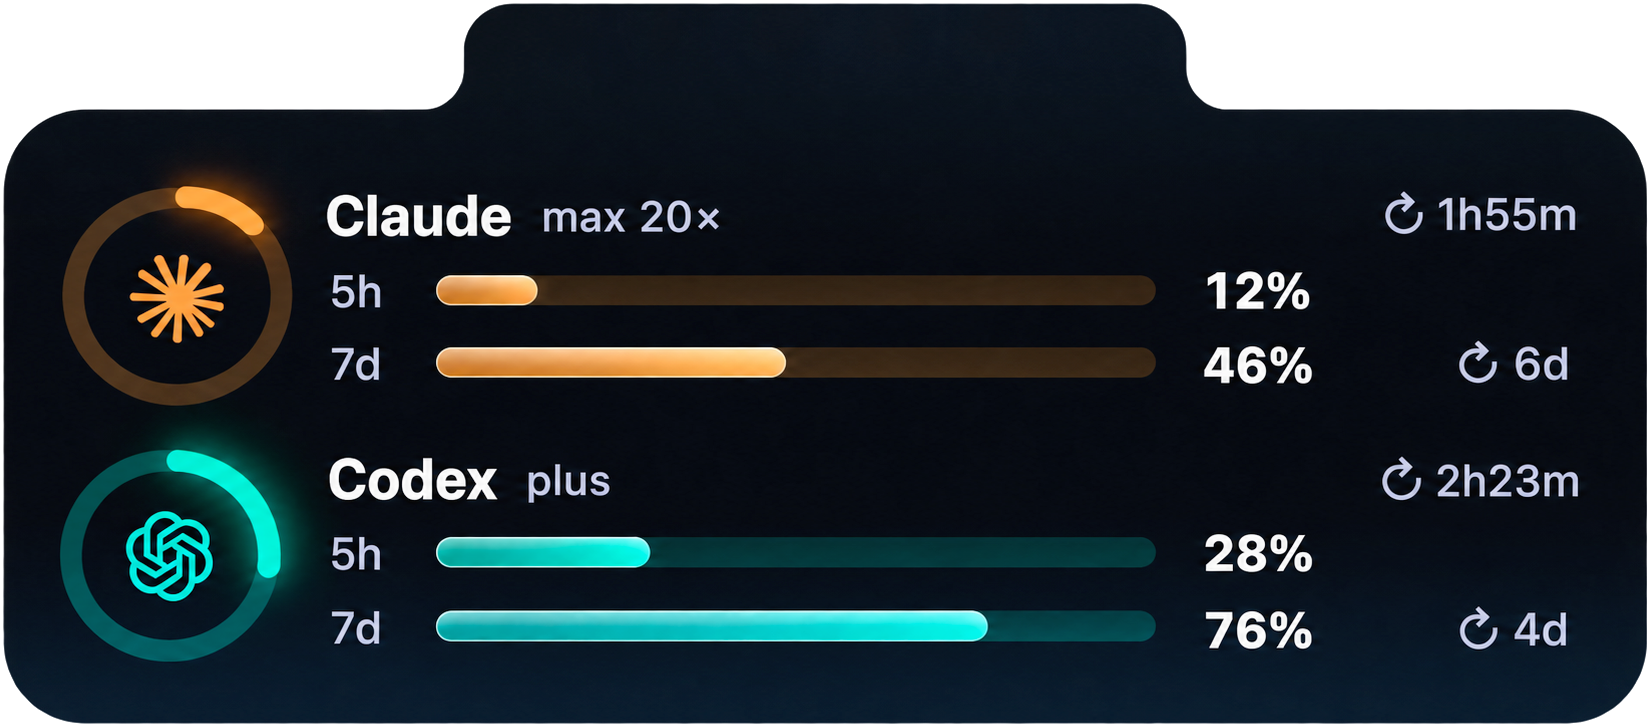
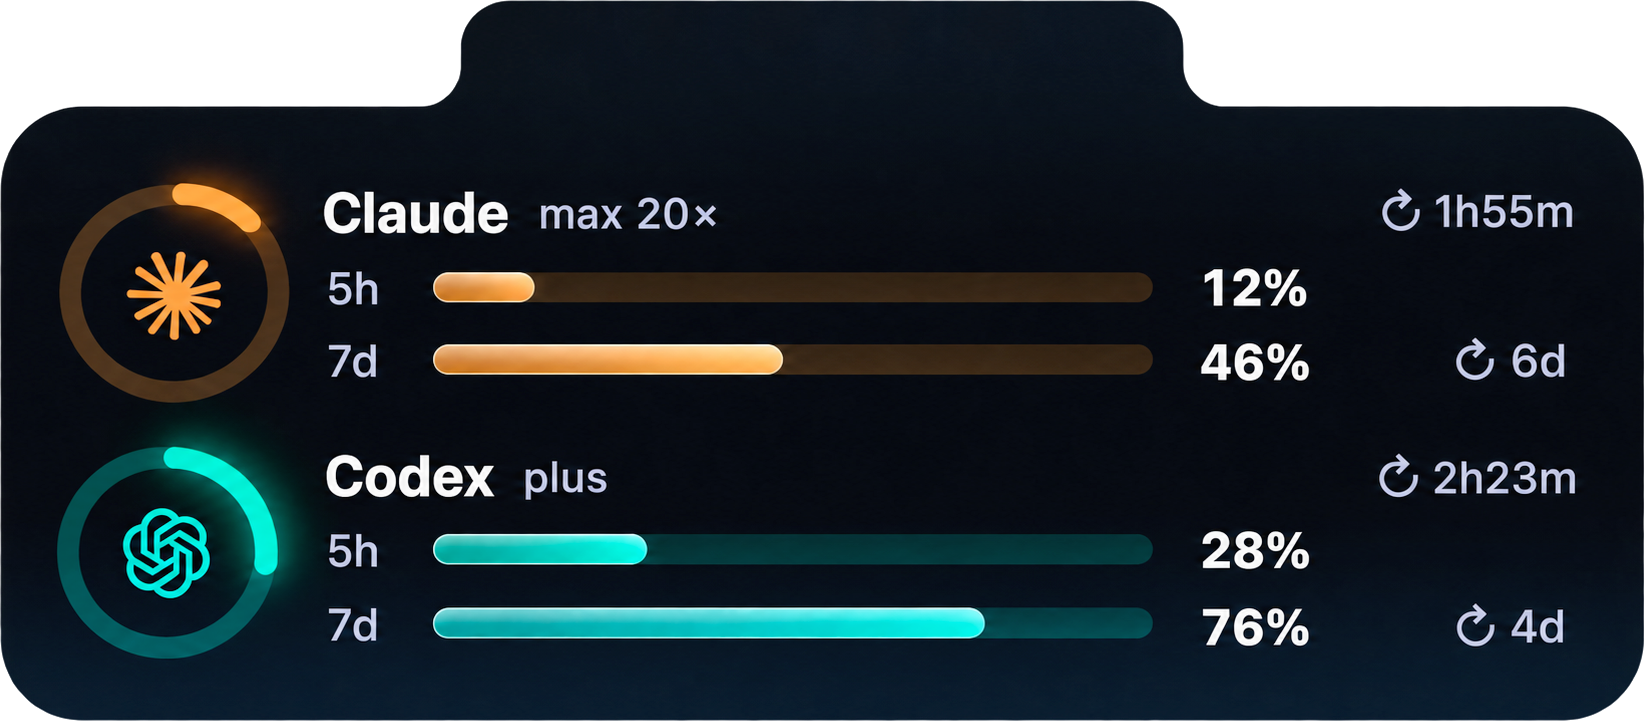
fix(hero): the island is smaller, and it meets the bar
Three things, and the first two were the same measurement.

NO GAP AT THE TOP. The crop kept 3px of transparent margin, which between
two near-black objects is a pale hairline. The asset is re-cropped with
margin ZERO and the artifact insets by -5px, so the tab's own antialiased
rows are clipped by the stage's overflow rather than drawn. Measured at the
seam afterwards, row by row: #0B1328 (bar) straight to #0A1727 (island),
with no light row between them.

THE COPY WAS 296pt BELOW ITS OWN PICTURE. The artifact row was everything
the copy did not want, and the island is short and wide, so the caption
floated. The two TOP-ANCHORED frames now size their own row (--art-h,
measured as the image's CONTENT height, since object-fit: contain
letterboxes whenever max-width bites). The gap is 41pt. The slack falls to
the bottom of the stage, and the dots moved there to give it a job.

AND THEY ARE SIZED AGAINST THE VIEWPORT, not the container's width and not
at height: 100% — which would be the row, which is measured from the box, a
circle. Each asks for a share of the viewport and then gives way to the copy
it carries: min(share, 100svh - bar - reserve). The reserves are what the
two blocks measure, plus air: 435px for the headline with its two buttons
and the release strip, 199 for the island's caption. On 1440x900 that is a
354px menu and a 234px island; on 1680x1080, 414 and 270. The menu stays the
bigger of the two at every height, which is what it is in the app.
[…]

diff --git a/components/HeroStage/HeroStage.tsx b/components/HeroStage/HeroStage.tsx
@@ -83,6 +83,22 @@ const frames: Frame[] = [
     reading: { agent: 'claude', percent: 20, resets: '1h44m', open: false },
   },
   {
+    src: '/screenshot-window-usage.png',
+    alt: 'The Usage pane: thirty days of Codex tokens, with the lifetime total, the best day and the streaks underneath',
+    anchor: 'centre',
+    eyebrow: 'Where the tokens went',
+    title: 'The history.',
+    body: 'The same chart over 7, 30 or 90 days, with the lifetime total, the best single day and the streaks under it. It is Codex’s history and the page says so: Claude Code publishes no counterpart at all.',
+    href: '/docs/the-window#usage',
+    linkLabel: 'What the chart can and cannot say',
+    /*
+     * The Usage pane carries no quota reading of its own, so the bar keeps the
+     * session's Codex figure from the Limits pane rather than inventing one.
+     * Codex because the chart is Codex's: Claude Code publishes no history.
+     */
+    reading: { agent: 'codex', percent: 5, resets: '3h21m', open: false },
+  },
+  {
     src: '/screenshot-window-limits.png',
     alt: 'The Limits pane of the Lancetta window: Claude Code seen a second ago and Codex live, each with its 5-hour and 7-day bar and the time it resets',
     anchor: 'centre',
@@ -97,11 +113,13 @@ const frames: Frame[] = [
 
 /*
  * Every frame's reading is READ OFF the screenshot it sits beside: the menu
- * shows Claude's 5-hour window at 20% with 1h44m to go, the island shows
- * Codex at 28% with 2h23m, the window's Quota Used shows Claude at 20%, and
- * the Limits pane shows Codex at 5% with 3h21m. The bar is meant to be the
- * same app as the picture under it — a percentage in the bar that the
- * screenshot beside it contradicts is a small lie the eye catches.
+ * shows Claude's 5-hour window at 20% with 1h44m to go, the island shows Codex
+ * at 28% with 2h23m, the window's Quota Used shows Claude at 20%, and the
+ * Limits pane shows Codex at 5% with 3h21m. The Usage pane shows no quota at
+ * all, so it keeps the Limits pane's Codex figure rather than inventing one.
+ * The bar is meant to be the same app as the picture under it — a percentage
+ * in the bar that the screenshot beside it contradicts is a small lie the eye
+ * catches.
  *
  * They are ILLUSTRATION, not claims: these are one developer's numbers on one
  * afternoon. Every figure the prose states comes from the measurement table in
@@ -187,6 +205,21 @@ export function HeroStage({ cadence = fallbackReleaseCadence() }: { cadence?: Ca
       return undefined;
     }
     const apply = () => {
+      /*
+       * The artifact row, for the two frames that hang from the bar. It is the
+       * image's CONTENT height, not its box's: `object-fit: contain` letterboxes
+       * whenever `max-width` bites, and the box would then reserve room for
+       * emptiness. The centred frames publish nothing and keep their `1fr`.
+       */
+      const art = inner.querySelector<HTMLImageElement>('[data-art-active="true"] img');
+      if (art?.naturalHeight) {
+        const box = art.getBoundingClientRect();
+        const content = Math.min(box.height, box.width * (art.naturalHeight / art.naturalWidth));
+        inner.style.setProperty('--art-h', `${Math.ceil(content)}px`);
+      } else {
+        inner.style.removeProperty('--art-h');
+      }
+
       const item = inner.querySelector<HTMLElement>('[data-copy-active="true"]');
       const kids = item?.children;
       if (!kids?.length) {
@@ -368,7 +401,12 @@ export function HeroStage({ cadence = fallbackReleaseCadence() }: { cadence?: Ca
         <div ref={stageRef} className={classes.stage} data-ready={ready}>
           <Container ref={innerRef} size="lg" className={classes.inner}>
             <div className={classes.artifacts}>
-              <div className={classes.artifact} data-anchor="menu" data-active={active === 0}>
+              <div
+                className={classes.artifact}
+                data-anchor="menu"
+                data-active={active === 0}
+                data-art-active={active === 0}
+              >
                 <Image
                   src={HERO_SHOT.src}
                   alt={HERO_SHOT.alt}
@@ -382,6 +420,7 @@ export function HeroStage({ cadence = fallbackReleaseCadence() }: { cadence?: Ca
                   className={classes.artifact}
                   data-anchor={frame.anchor}
                   data-active={active === i + 1}
+                  data-art-active={active === i + 1 && frame.anchor !== 'centre'}
                   aria-hidden={active !== i + 1}
                 >
                   <Image src={frame.src} alt={frame.alt} className={classes.shot} />
@@ -417,16 +456,22 @@ export function HeroStage({ cadence = fallbackReleaseCadence() }: { cadence?: Ca
                   </Link>
                 </div>
               ))}
+            </div>
 
-              <div className={classes.dots} aria-hidden>
-                {readings.map((reading, i) => (
-                  <span
-                    key={`${reading.agent}-${i}`}
-                    className={classes.dot}
-                    data-active={i === active}
-                  />
-                ))}
-              </div>
+            {/*
+              At the bottom of the STAGE, not under the copy. The two frames
+              that hang from the bar are content-sized, so their slack falls to
+              the bottom of the viewport, and an indicator pinned there gives
+              that air a job instead of leaving it as a hole.
+            */}
+            <div className={classes.dots} aria-hidden>
+              {readings.map((reading, i) => (
+                <span
+                  key={`${reading.agent}-${i}`}
+                  className={classes.dot}
+                  data-active={i === active}
+                />
+              ))}
             </div>
           </Container>
         </div>

diff --git a/components/HeroStage/HeroStage.module.css b/components/HeroStage/HeroStage.module.css
@@ -46,11 +46,21 @@
  * is exactly enough to read as a misalignment rather than as a drop.
  */
 .inner {
+  position: relative;
   display: grid;
   /*
    * The product on top, the copy at the bottom. `minmax(0, 1fr)` rather than
    * `1fr`: without the zero minimum a tall screenshot refuses to shrink and
    * pushes the copy off the bottom of the stage on a short viewport.
+   *
+   * `--art-h` is the two TOP-ANCHORED frames' own content height, published by
+   * HeroStage.tsx. Without it the artifact row was everything the copy did not
+   * want, and the island — which is short and wide — sat 296pt above its own
+   * caption with nothing in between. With it the two rows are content-sized,
+   * `align-content: start` hangs them off the bar and the slack falls to the
+   * bottom of the stage, where it is air rather than a hole. The centred
+   * frames (the two windows) publish nothing and keep the `1fr`: they are
+   * vertically centred and have no join to protect.
    */
   /*
    * The copy row is the ACTIVE block's own height (`--copy-h`, measured and
@@ -60,7 +70,9 @@
    * the fallback: with no JS the row is the headline's, which is the frame
    * that must not be cut.
    */
-  grid-template-rows: minmax(0, 1fr) var(--copy-h, auto);
+  grid-template-rows: var(--art-h, minmax(0, 1fr)) var(--copy-h, auto);
+  align-content: start;
+  row-gap: clamp(rem(14px), 3vh, rem(44px));
   transition: grid-template-rows 420ms cubic-bezier(0.2, 0.7, 0.2, 1);
   width: min(rem(1180px), calc(100% - rem(32px)));
   max-width: none;
@@ -128,7 +140,15 @@
  * keeps because a dropdown does open a hair below the bar.
  */
 .artifact[data-anchor='notch'] {
-  inset: rem(-2px) 0 0;
+  /*
+   * `-5px` is the stage's 2px of padding plus 3 more, so the tab's own
+   * antialiased top rows are clipped by the stage's `overflow: hidden` rather
+   * than drawn as a pale hairline between two near-black objects. The crop
+   * leaves no transparent margin now (`deshadow.swift ... 0`), and the rounded
+   * corners of the tab lose about 7 source pixels, which is the point: a notch
+   * is cut out of the bar, not resting against it.
+   */
+  inset: rem(-5px) 0 0;
   justify-content: center;
   align-items: flex-start;
   transform: translateY(rem(-18px)) scale(0.98);
@@ -170,9 +190,10 @@
    * on a capture carrying a baked shadow of its own it is cast from the
    * SHADOW's silhouette rather than the object's, and spreads into a grey
    * smudge — measured on the island, #D1D7EA under it against a #F0F1FD page.
-   * Three of the four captures had no baked shadow (2px of margin or none);
-   * the island's was stripped with `scripts/deshadow.swift`, so now every
-   * artifact gets its depth from here and from nowhere else.
+   * The other captures had no baked shadow (2px of margin or none); the
+   * island's was replaced with a cleanly-keyed one, cropped by
+   * `scripts/deshadow.swift`, so now every artifact gets its depth from here
+   * and from nowhere else.
    *
    * Softer than the dark site's was: a 55% black shadow on an off-white page
    * reads as dirt, not as depth.
@@ -187,18 +208,35 @@
  * screen and overflows on a small one. The max-width is the cap that stops
  * the menu from crossing the page on a very short, very wide window.
  */
+/*
+ * The two that hang from the bar are sized off the VIEWPORT's height, not off
+ * the container's width and not at `height: 100%`.
+ *
+ * `100%` is the row's height, and the row is now `--art-h`, which is measured
+ * FROM this box: a circle. A percentage of the container width is not circular
+ * but ignores the viewport's height, and the copy under them is the part that
+ * runs out of room on a laptop.
+ *
+ * So each one asks for a share of the viewport and then gives way to the copy
+ * it carries: `min(<share>, 100svh - the bar - the copy's own reserve)`. The
+ * reserves are what the two blocks measure at their widest, plus air — the
+ * headline with two buttons and the release strip under it is 435px, the
+ * island's caption 199. On a 1440x900 laptop that makes the menu 354 and the
+ * island 234; on a 1440x1100 screen 506 and 286. The menu stays the bigger of
+ * the two at every height, which is what it is in the app.
+ */
 .artifact[data-anchor='menu'] .shot {
   width: auto;
   max-width: 46%;
-  height: 100%;
+  height: min(46svh, calc(100svh - var(--lan-bar-height, rem(46px)) - rem(500px)));
   /* Same reason as the island: it drops FROM the bar, so it starts at the top. */
   object-position: top center;
 }
 
 .artifact[data-anchor='notch'] .shot {
   width: auto;
-  max-width: 88%;
-  height: 100%;
+  max-width: 70%;
+  height: min(26svh, calc(100svh - var(--lan-bar-height, rem(46px)) - rem(290px)));
   /*
    * `contain` letterboxes, and a letterbox above the island is 70px of air
    * between the notch and the bar it is supposed to be cut out of. The box is
@@ -333,7 +371,7 @@
 /* Where the reader is in the sequence. Decoration, hence `aria-hidden`. */
 .dots {
   position: absolute;
-  bottom: rem(-16px);
+  bottom: rem(18px);
   left: 50%;
   display: flex;
   gap: rem(8px);

diff --git a/CLAUDE.md b/CLAUDE.md
@@ -172,7 +172,7 @@ than `#000`.
 
 **There is no `.plateBand` any more.** The two dark slabs (the in-detail band
 and the closing CTA) read as holes on a light-only page: the in-detail band's
-content became the hero's fourth frame, and the CTA is `.auroraBand` — the
+content became one of the hero's frames, and the CTA is `.auroraBand` — the
 same three lights on the page's own white, under the same 2px neon rim. The one
 dark object on the site is the menu bar in the header, and it is dark because it
 is chrome: it stands in for the macOS menu bar, which is where the product
@@ -266,8 +266,13 @@ else.
 
 **The island was then replaced with a cleanly-keyed version** (same day, from
 the user), whose margins are genuinely transparent — max alpha 0.004 down the
-side band — so only the CROP applied: 1780x883 to 1651x727. The crop is the
-half that keeps mattering. `object-fit: contain` fits the whole canvas, so
+side band — so only the CROP applied: 1780x883 to 1645x721, with margin ZERO.
+Any margin at all is a pale hairline between two near-black objects: 3px of it
+showed as a gap between the tab and the bar, and the fix is both the tight crop
+and a `-5px` inset, so the tab's own antialiased rows are clipped by the
+stage's `overflow: hidden` rather than drawn. Measured at the seam afterwards,
+row by row: `#0B1328` (bar) straight to `#0A1727` (island), no light row. The
+crop is the half that keeps mattering. `object-fit: contain` fits the whole canvas, so
 transparent margin is empty box: it shrinks the object and, for the island,
 lifts it off the bar it is supposed to be cut out of. The tab must also stay
 the image's horizontal centre (measured: 825.0 of 825.0), because the bar's
@@ -436,7 +441,9 @@ It is the same mechanism the gallery was — a tall track, a viewport-high stage
 stuck under the bar, and the frame a pure function of how far the stage has
 travelled through the track (`frameIndex`, tested, now in
 `HeroStage/frame-index.ts`) — with the hero's own headline as frame 0 and the
-three surfaces after it. **Nothing intercepts the wheel**, which is what makes
+four surfaces after it: the island, the window's Overview, its Usage chart and
+its Limits pane. Adding one is a row in the `frames` array, and its `reading`
+is read OFF its own screenshot (see the comment above `heroReading`). **Nothing intercepts the wheel**, which is what makes
 it behave the same with a trackpad, a mouse, the keyboard and VoiceOver. Phones
 and `prefers-reduced-motion` get the same frames as a plain stack. The frame is
 measured between the stage's box and the track's box, never against the
@@ -465,6 +472,15 @@ probe after a capture looked wrong:
 - **The artifacts hang from the bar** (`object-position: top`). `contain`
   letterboxes, and a letterbox above the island is 70px of air between the notch
   and the bar it is supposed to be cut out of.
+- **The two top-anchored frames size their own row** (`--art-h`), and are
+  themselves sized in `svh`. The row used to be everything the copy did not
+  want, which left the island — short and wide — 296pt above its own caption
+  with nothing in between; it is 41 now. `svh` rather than `height: 100%`
+  because the row IS `--art-h` and that is a circle, and rather than a
+  percentage of the container because the copy under them is what runs out of
+  room on a laptop, which only the viewport's height knows about. The dots
+  moved to the bottom of the stage: the slack now falls there, and an indicator
+  pinned to it gives that air a job.
 
 The stage also drives the header: each frame writes
 `MenuBarHeader/reading-store.ts`, so the status item in the bar changes agent,
